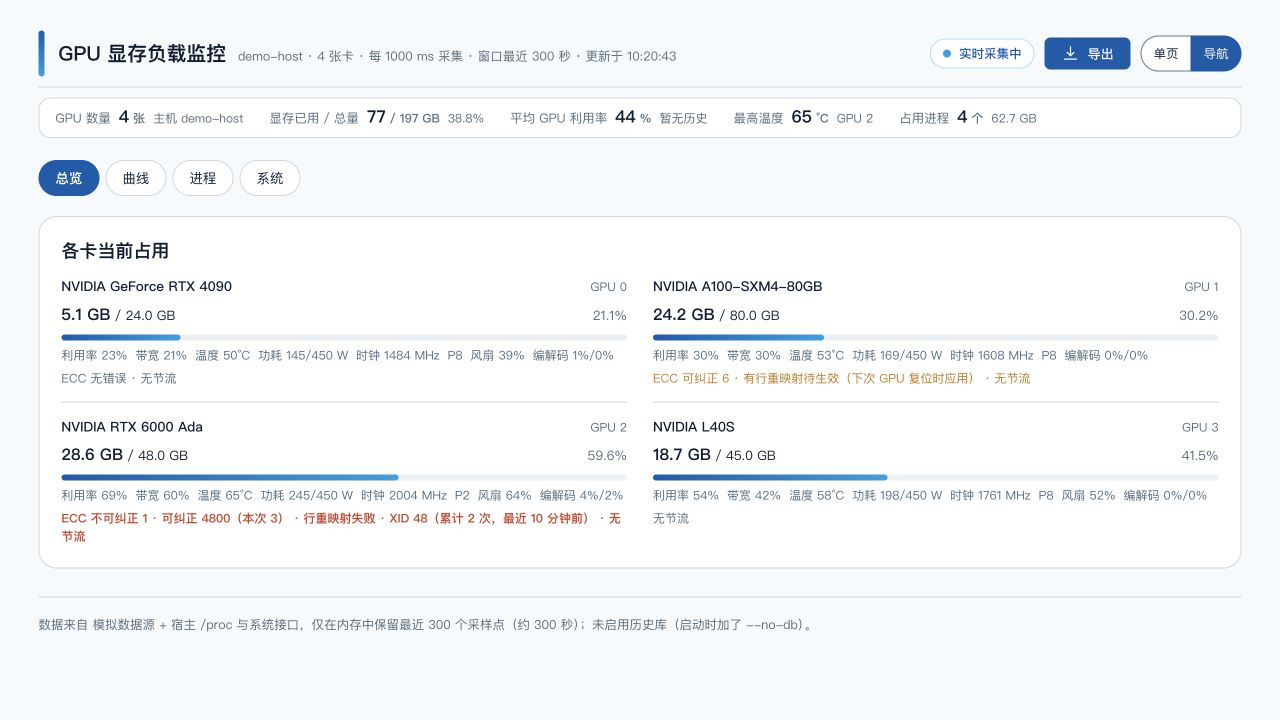
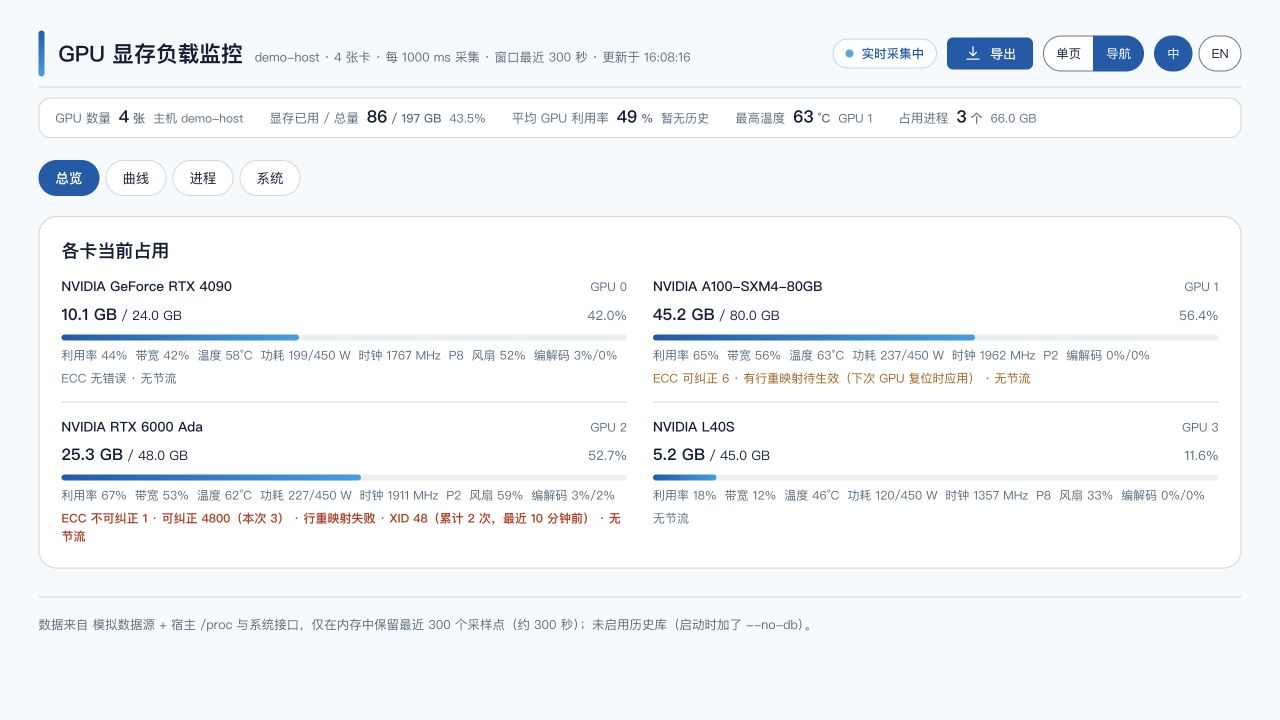
docs: 预览图重拍（中英各一套），英文 README 同步界面语言
界面加了中英切换之后，原来的两张预览图既过时（没有语言开关，颜色也是旧的），
也对英文读者不友好（README.en.md 一直引用中文界面的图）。

现在四张，各文档用自己的语言：
  docs/preview-nav.png / preview-single.png        中文界面（README.md 引用）
  docs/preview-nav.en.png / preview-single.en.png  英文界面（README.en.md 引用）
都用 --mock 模拟数据拍摄，主机名固定 demo-host、卡型与服务名都是假的，不含真机信息。

README.en.md 同步了中文版这轮的 i18n 内容：功能列表补「Bilingual UI」一条，
新增「Interface language」一节（语言优先级、加文案时两份 key 必须一一对应、
单复数用 Intl.PluralRules、哪些格式刻意不随语言变、后端诊断文本的回退规则）。
中文 README 的图注补了一句"右上角可切 中 / EN，英文界面见 English README"。

diff --git a/README.en.md b/README.en.md
@@ -10,13 +10,13 @@ Real-time VRAM utilisation dashboard for a single machine with multiple GPUs. **
 ![Build](https://img.shields.io/badge/build-none-brightgreen)
 [![CI](https://github.com/cmzt-coder/gpu-monitor/actions/workflows/ci.yml/badge.svg)](https://github.com/cmzt-coder/gpu-monitor/actions/workflows/ci.yml)
 
-**Navigation mode** — one tab per concern, with the persistent area squeezed into a line or two (on an 8-GPU box each card also fits its metrics on a single line).
+**Navigation mode** — one tab per concern, with the persistent area squeezed into a line or two (on an 8-GPU box each card also fits its metrics on a single line). The screenshots below show the English UI; the Chinese one is in the [Chinese README](README.md).
 
-![Navigation mode · overview](docs/preview-nav.png)
+![Navigation mode · overview](docs/preview-nav.en.png)
 
 **Single-page mode** — every card on one page, so charts and per-GPU cards are visible together.
 
-![Single-page mode](docs/preview-single.png)
+![Single-page mode](docs/preview-single.en.png)
 
 <sub>Both screenshots use <code>--mock</code> sample data: GPU models, service names and the hostname are fake (the hostname always renders as <code>demo-host</code>).</sub>
 
@@ -42,6 +42,7 @@ Open <http://localhost:8090/>. To deploy it on a server and make it survive rebo
 - **Alerting**: thresholds for VRAM / temperature / throttling / utilisation / host memory / disk / collection outages, including **per-service** rules and hardware-health metrics, with "must hold for N minutes" and cooldown suppression. Channels: **email**, webhook and console
 - **Export**: a single entry point — pick content, layout (the GPU table can be wide: one row per sample, one column group per GPU), time range and options. CSV carries both local time and UTC
 - **History**: SQLite storage (`data/gpu-monitor.db`) survives restarts; the page switches between live / 3d / 7d / 30d / 60d / 90d / all
+- **Bilingual UI (Chinese / English)**: the `中 / EN` switch in the top bar takes effect immediately — no reload, no service restart — and the choice is remembered in local storage. The default follows `navigator.language`; a single link can pin a language with `?lang=en-US` or `#lang=en-US`
 - Also: host metrics (CPU / memory / swap / load / disk / network), SSE push with automatic fallback to polling, idle down-throttling, 90% warning line, and copy-pasteable troubleshooting commands when something breaks
 
 ## Platform support
@@ -66,6 +67,16 @@ The detailed documentation is currently **in Chinese**:
 | [Platform support and feature details](docs/features.md) | What can be read, host-metric coverage, how service attribution works, history database and maintenance |
 | [FAQ](docs/faq.md) | Start here when the page or the numbers look wrong |
 | [Development notes](docs/development.md) | Layout, implementation choices, running the mock, the smoke test |
+
+## Interface language
+
+The `中 / EN` switch in the top bar is the only entry point. Switching re-renders the page in place — including the axis labels drawn on canvas and the hover tooltips.
+
+- **Precedence**: explicit URL parameter (`?lang=` / `#lang=`) → last choice (`localStorage`) → `navigator.language` → Chinese
+- **Adding strings**: add a key to `public/i18n/zh-CN.js` and the same key to `en-US.js`. Both catalogs must stay key-for-key identical, placeholders (`{name}`) included; `node tools/smoke-test.mjs` verifies that, and also catches keys used in code but missing from the catalogs
+- **Plurals**: write `xxx.one` / `xxx.other` pairs and call `tn('xxx', n)` — built on the browser's `Intl.PluralRules`, no third-party library
+- **Deliberately not translated**: number formatting, time format (24-hour), units (GB / MiB / % / °C / W) and exported CSV column names — they have to line up with the export files, the logs and `nvidia-smi` output
+- **Backend diagnostics** (platform notes, collection warnings, the reason history is unavailable…) are matched from known source strings to keys by `public/backend-text.js`. If the backend rewords a sentence, the page falls back to the original text instead of a blank or a raw key, and every one of those strings has an assertion in the smoke test
 
 ## License
 

diff --git a/README.md b/README.md
@@ -18,7 +18,7 @@
 
 ![单页模式](docs/preview-single.png)
 
-<sub>以上都是 <code>--mock</code> 模拟数据的截图：卡型、服务名、主机名全是假的（主机名固定显示 <code>demo-host</code>）。</sub>
+<sub>以上都是 <code>--mock</code> 模拟数据的截图：卡型、服务名、主机名全是假的（主机名固定显示 <code>demo-host</code>）。界面右上角可切 <code>中 / EN</code>，英文界面见 <a href="README.en.md">English README</a>。</sub>
 
 ## 30 秒上手
 
